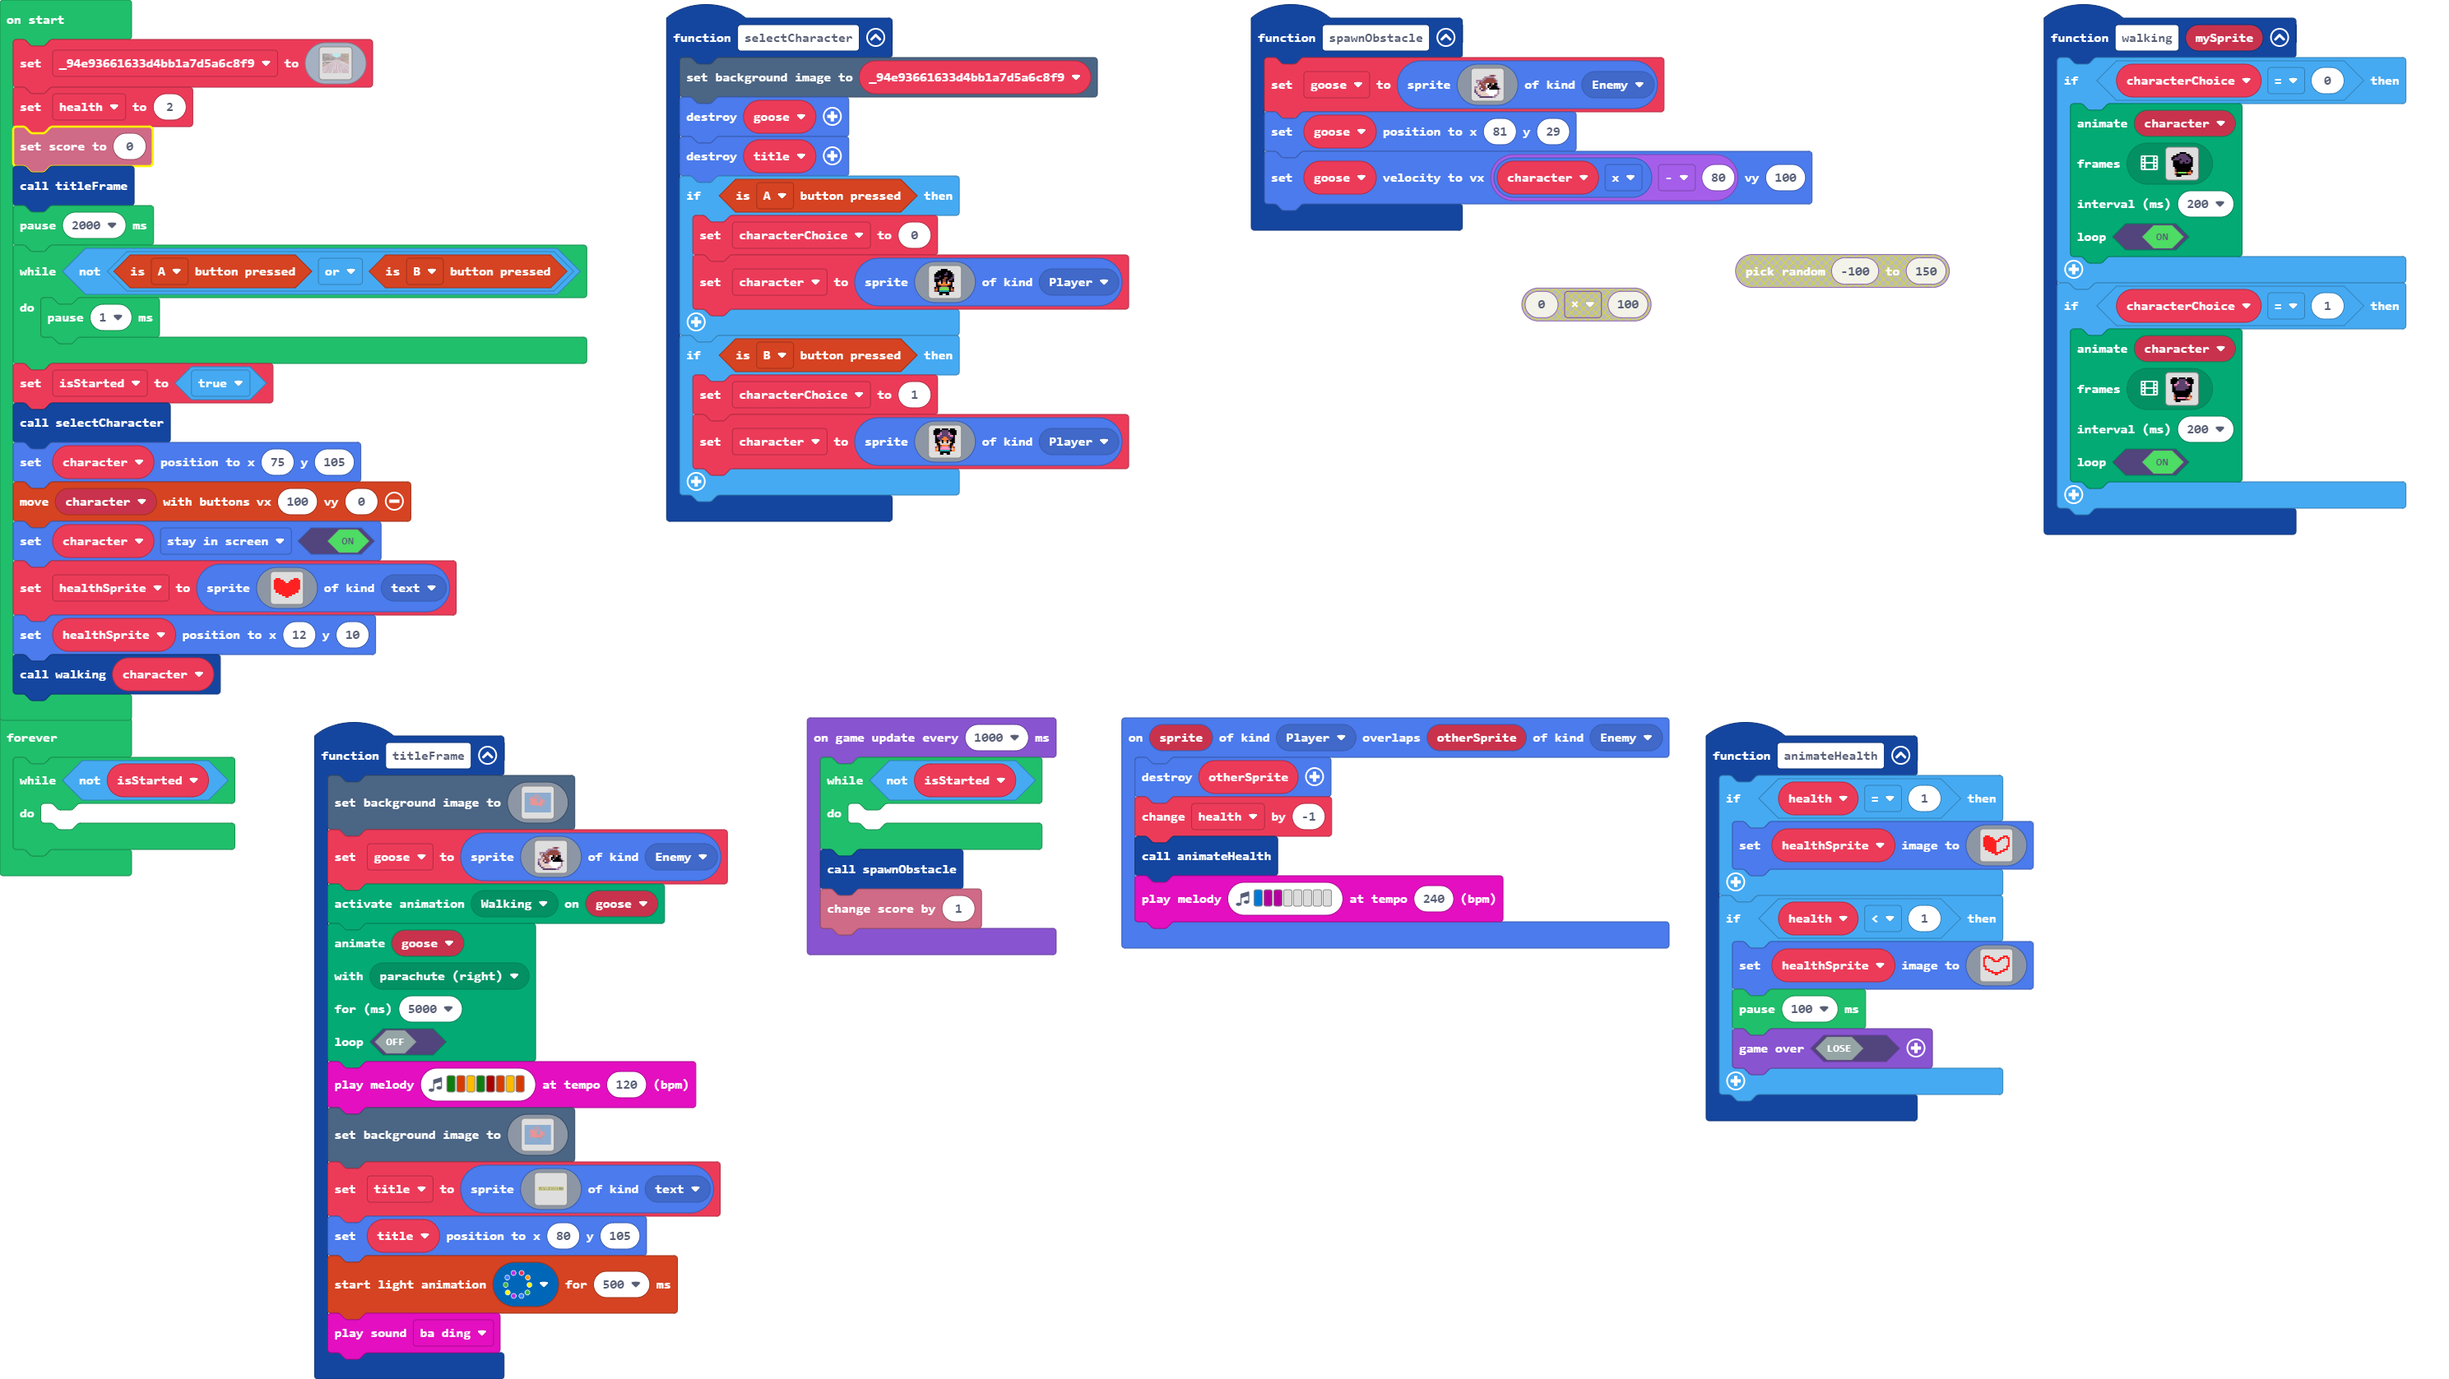
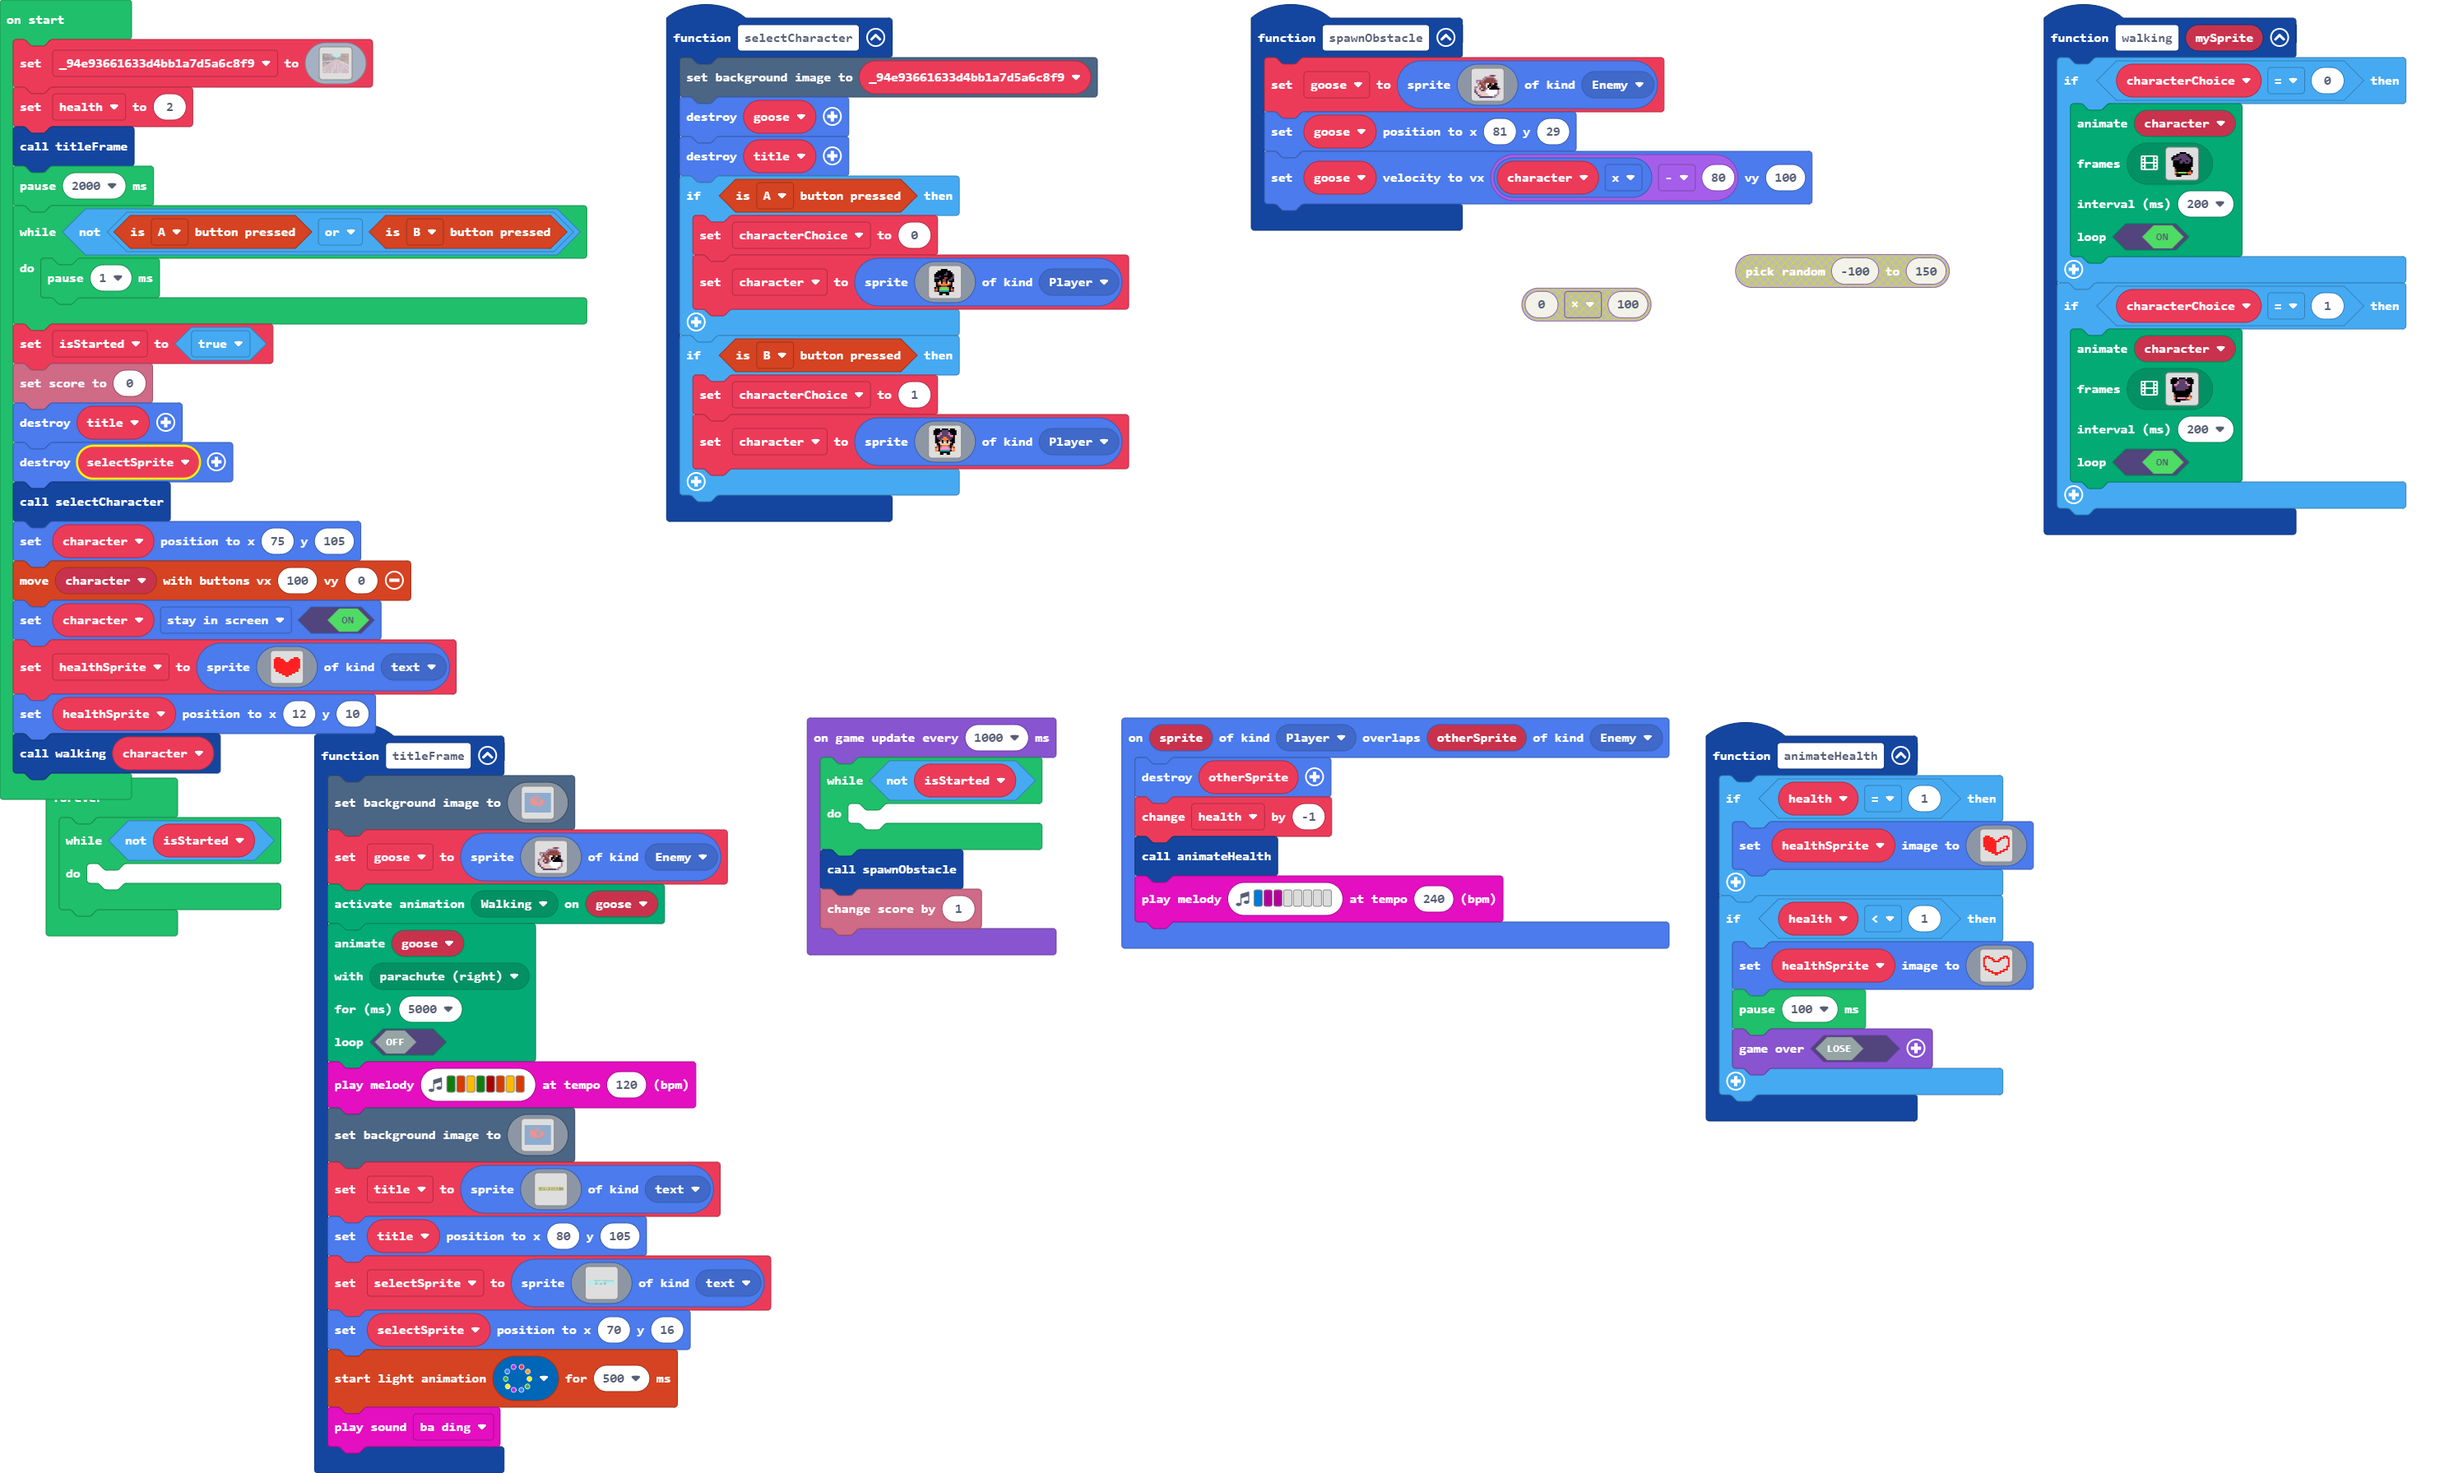
Add to title screen

diff --git a/main.ts b/main.ts
@@ -517,14 +517,50 @@ function titleFrame () {
         ................................................................................................................................................................
         `, SpriteKind.text)
     title.setPosition(80, 105)
+    selectSprite = sprites.create(img`
+        9999999999999999999999999999999999999999999999999999999999999999999999999999999999999999999999999999999999999999999999999999999999999999999999999999999999999999
[10 lines of base64/hex data omitted]
+        9999999999999999999999999999999999999999999999999999999999999999999999999999999999999999999999999999999999999999999999999999999999999999999999999999999999999999
+        9999999999999999999999999999999999999999999999999999999999999999999999999999999999999999999999999999999999999999999999999999999999999999999999999999999999999999
+        9999999999999999999999999999999999999999999999999999999999999999999999999999999999999999999999999999999999999999999999999999999999999999999999999999999999999999
+        9999999999999999999999999999999999999999999999999999999999999999999999999999999999999999999999999999999999999999999999999999999999999999999999999999999999999999
+        9999999999999999999999999999999999999999999999999999999999999999999999999999999999999999999999999999999999999999999999999999999999999999999999999999999999999999
[15 lines of base64/hex data omitted]
+        9999999999999999999999999999999999999999999999999999999999999999999999999999999999999999999999999999999999999999999999999999999999999999999999999999999999999999
+        `, SpriteKind.text)
+    selectSprite.setPosition(70, 16)
     controller.startLightAnimation(light.rainbowAnimation, 500)
     music.baDing.play()
 }
 let characterChoice = 0
-let title: Sprite = null
 let goose: Sprite = null
 let healthSprite: Sprite = null
 let character: Sprite = null
+let selectSprite: Sprite = null
+let title: Sprite = null
 let health = 0
 let _94e93661633d4bb1a7d5a6c8f9: Image = null
 _94e93661633d4bb1a7d5a6c8f9 = img`
@@ -650,13 +686,15 @@ _94e93661633d4bb1a7d5a6c8f9 = img`
     dbbbbbbbbbcbbbbbbbbbbbbbbbbbbddddddbbbbbbbbbbbbbbbbbbdddddddbbbbbbbbbbbbbbbbbbbbbbbbbbbbbbbbbbddddddddbbbbdddbddddddddbbdbbbbbbbbbbbbbbbbbbbbbbbbbbbbbbbbbbbbbbb
     `
 health = 2
-info.setScore(0)
 titleFrame()
 pause(2000)
 while (!(controller.A.isPressed() || controller.B.isPressed())) {
     pause(1)
 }
 let isStarted = true
+info.setScore(0)
+title.destroy()
+selectSprite.destroy()
 selectCharacter()
 character.setPosition(75, 105)
 controller.moveSprite(character, 100, 0)
